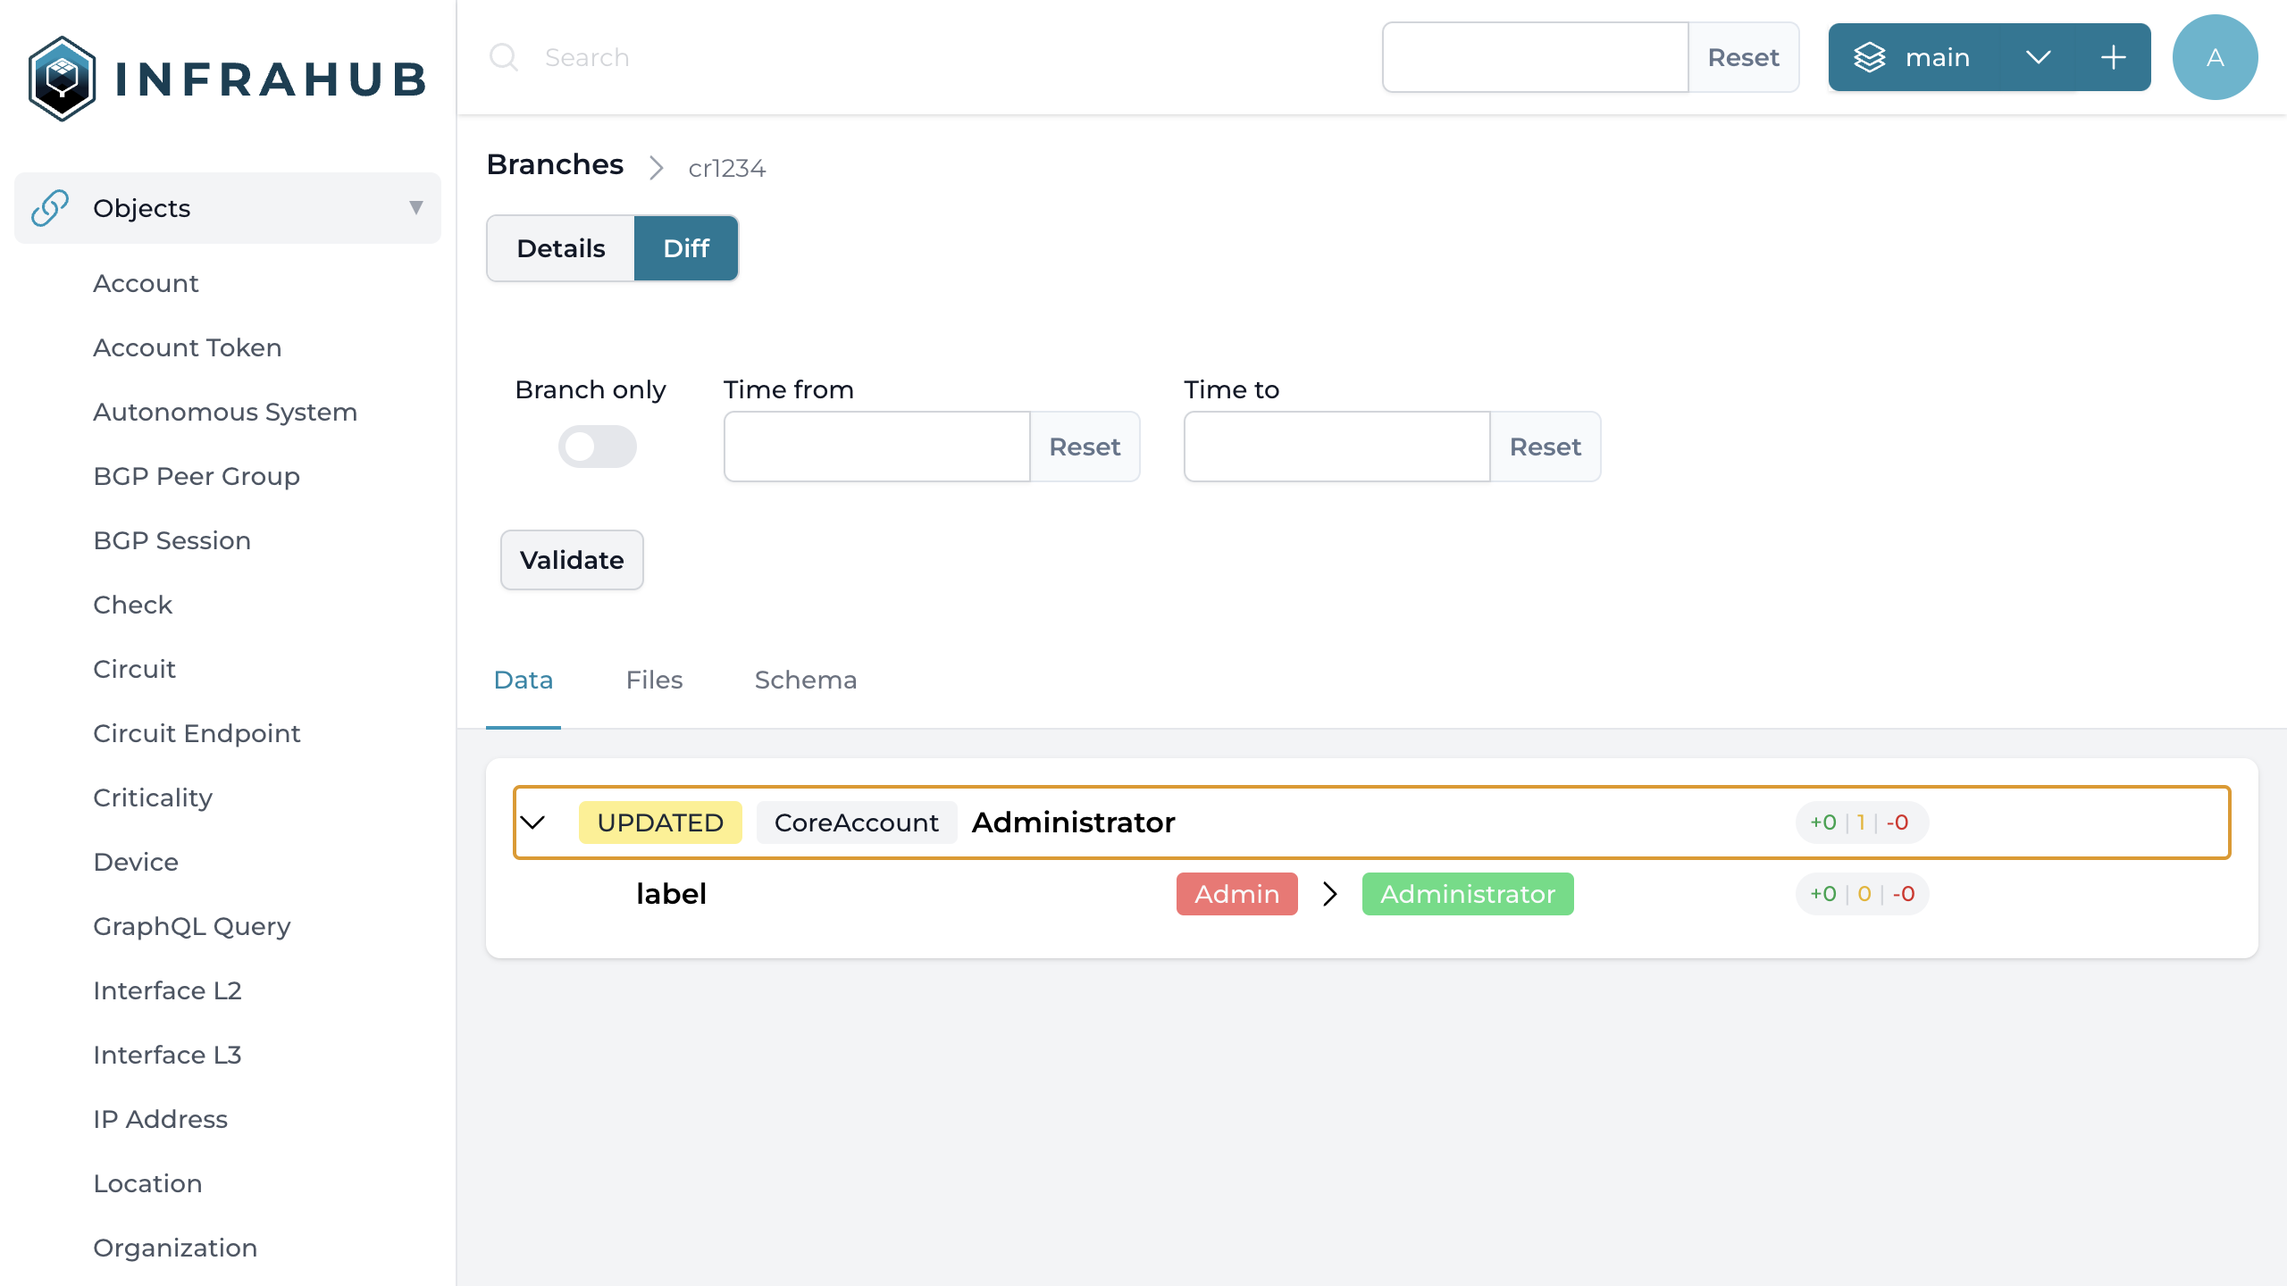
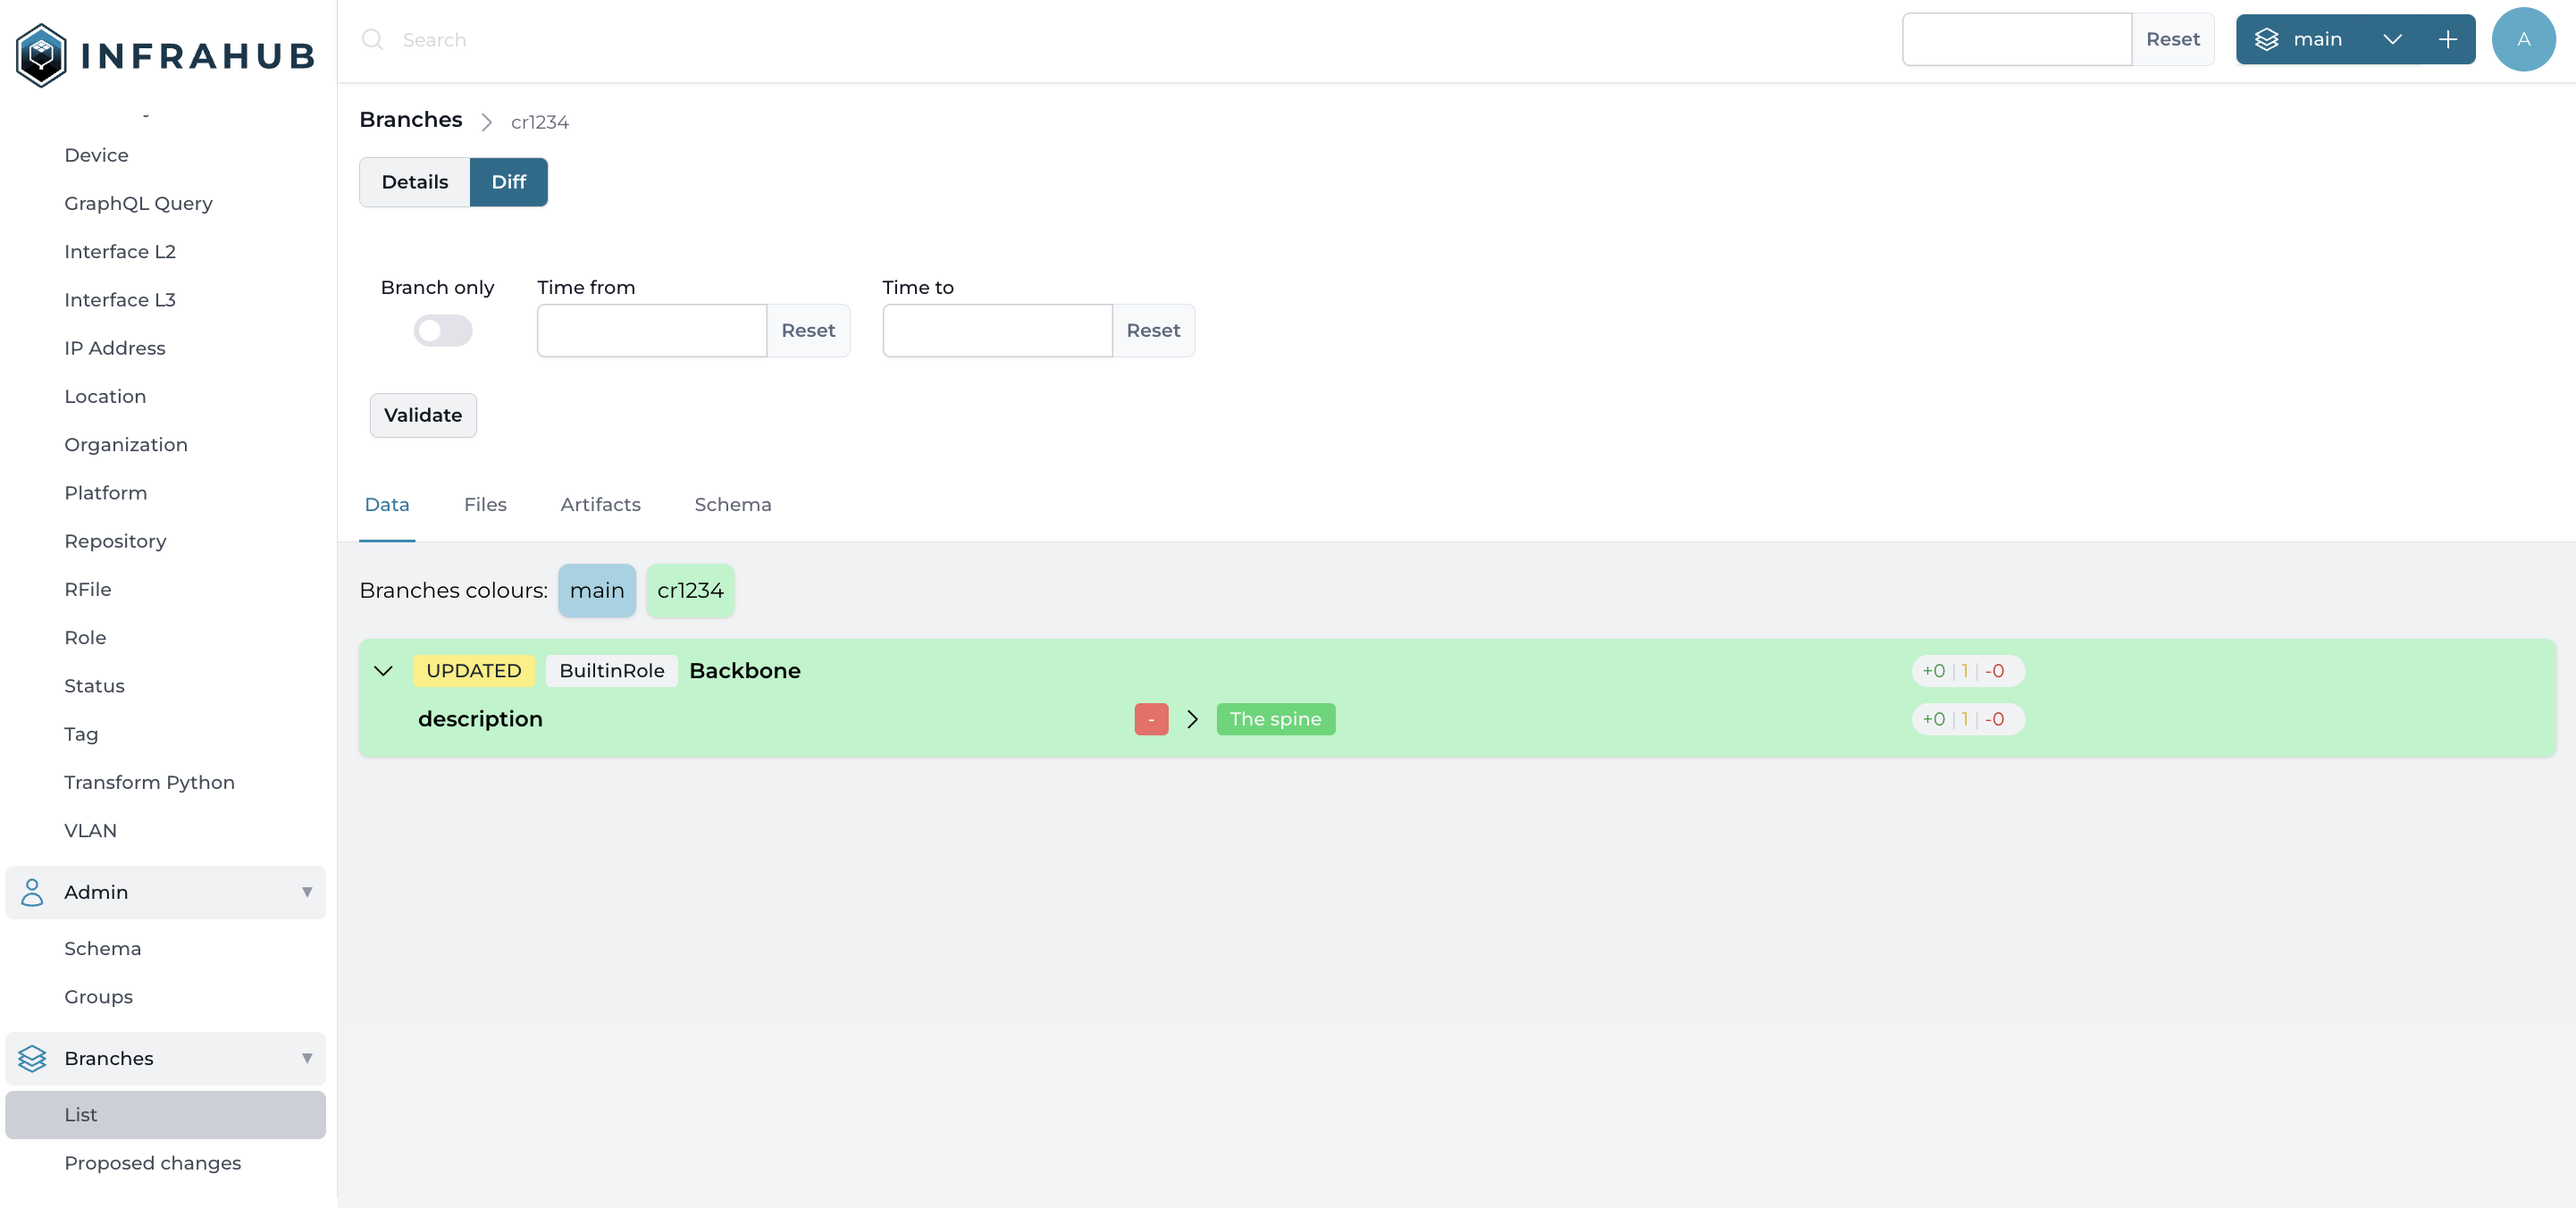
Replace account with role as example in documentation
As we want to make account branch agnostic

Fixes #929

We will probably want to change the later part of this tutorial to use
proposed change instead of a direct merge once that works.

diff --git a/docs/02_tutorial/01_branches.md b/docs/02_tutorial/01_branches.md
@@ -51,22 +51,22 @@ mutation {
 > You'll need to provide a header to execute this operation > `{"X-INFRAHUB-KEY":"06438eb2-8019-4776-878c-0941b1f1d1ec"}`
 ==-
 
-### Modify the Admin Account via the UI
+### Modify the Backbone Role via the UI
 
 > The name of the active branch in the top right corner should now be `cr1234`
 
-1. Select Account under Object in the left menu (near the top)
-2. Select the `admin` account
+1. Select Role under Object in the left menu (near the top)
+2. Select the `backbone` role
 3. Select the `edit` button on the top right corner
-4. Update the label attribute of the Admin account, for example with `Administrator`
+4. Update the description attribute of the Backbone role, for example with `The spine`
 5. Save your change with the button `save`
 
-![Access the accounts](../media/tutorial/tutorial-1-branch-and-version-control.cy.ts/tutorial_1_accounts.png)
-![Select the admin account](../media/tutorial/tutorial-1-branch-and-version-control.cy.ts/tutorial_1_account_details.png)
-![Select the `edit` button](../media/tutorial/tutorial-1-branch-and-version-control.cy.ts/tutorial_1_account_edit.png)
+![Access the roles](../media/tutorial/tutorial-1-branch-and-version-control.cy.ts/tutorial_1_roles.png)
+![Select the backbone role](../media/tutorial/tutorial-1-branch-and-version-control.cy.ts/tutorial_1_role_details.png)
+![Select the `edit` button](../media/tutorial/tutorial-1-branch-and-version-control.cy.ts/tutorial_1_role_edit.png)
 
 !!!success Validate that everything is correct
-Go back to the detailed page for the Account `Admin` and try to switch branches with the branch selection menu at the top. <br>
+Go back to the detailed page for the Role `Backbone` and try to switch branches with the branch selection menu at the top. <br>
 **You should be able to see the value of the label change when you change the branch.**
 !!!
 

diff --git a/docs/02_tutorial/00_introduction_to_infrahub.md b/docs/02_tutorial/00_introduction_to_infrahub.md
@@ -21,5 +21,5 @@ During this tutorial we'll mainly use the Frontend, the `infrahubctl` CLI and Gr
 | **Git Agent** | Infrahub Agent that manages all content hosted in Git.  |  -- |
 | **Git Server** | External Git Server like Github or Gitlab that can host some Git repositories  |  |
 | **GraphDB** | Main database where all information in the graph are stored. Neo4j 5.x | -- |
-| **Cache** | Cache based on Redis, mainly used to support the reservation of shared resources across all comoponents. | -- |
+| **Cache** | Cache based on Redis, mainly used to support the reservation of shared resources across all components. | -- |
 | **Message Bus** | Message bus based on RabbitMQ to allow all components to interact |-- |
